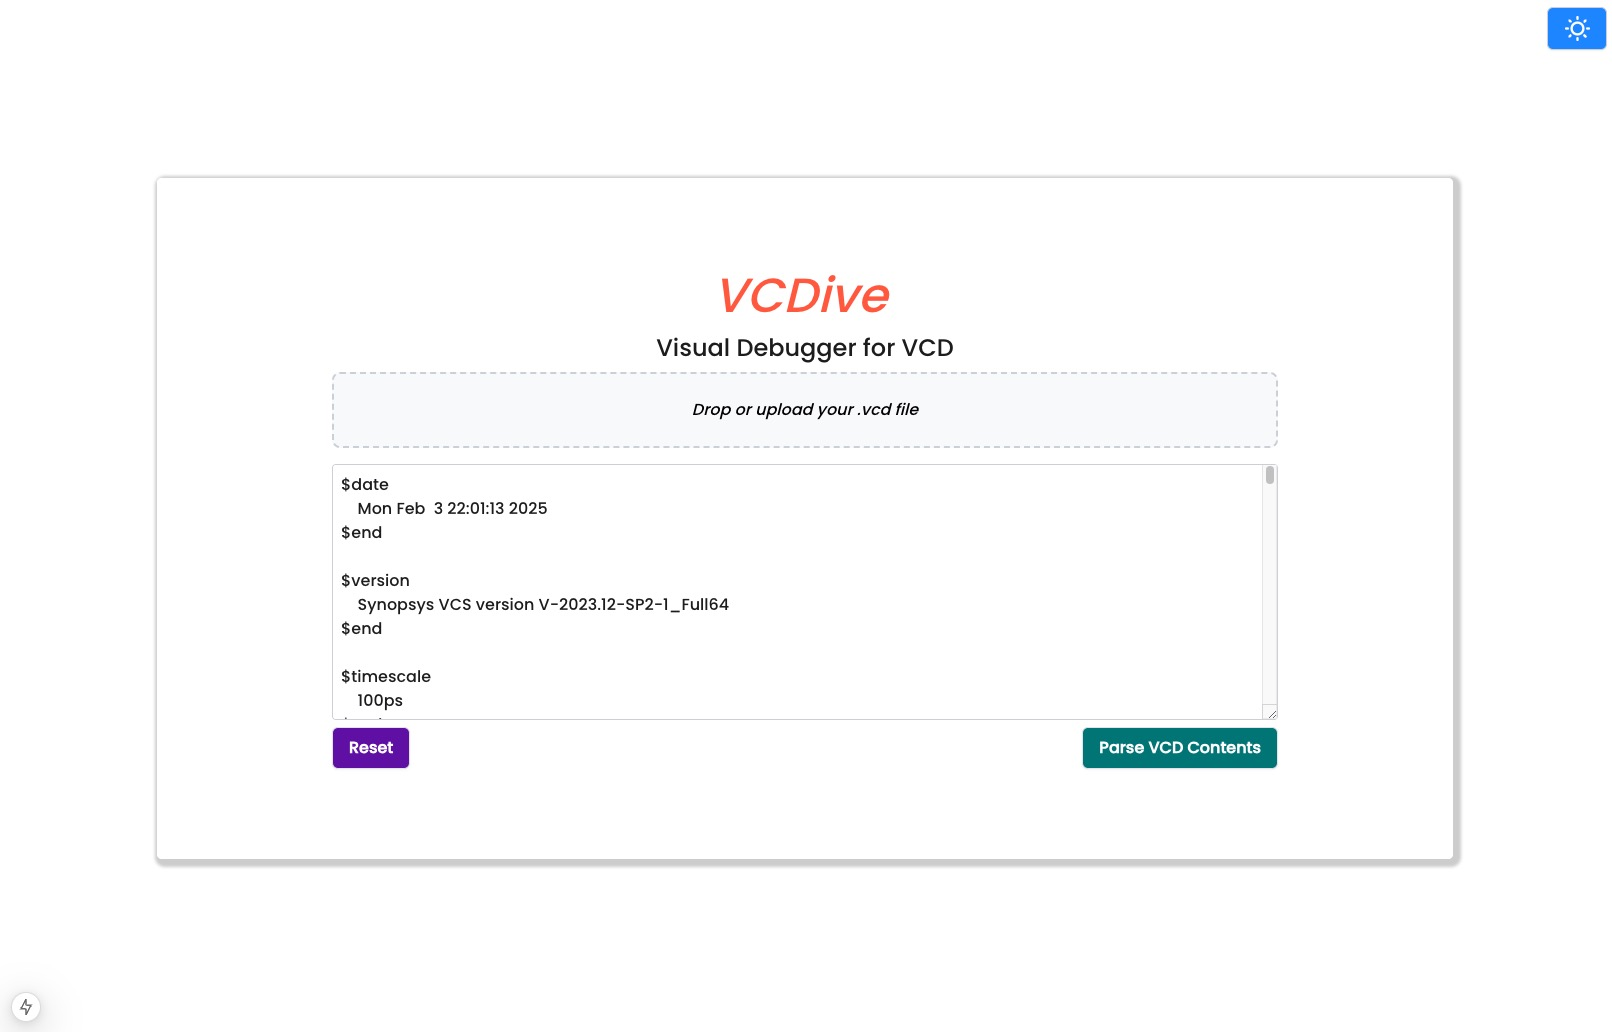
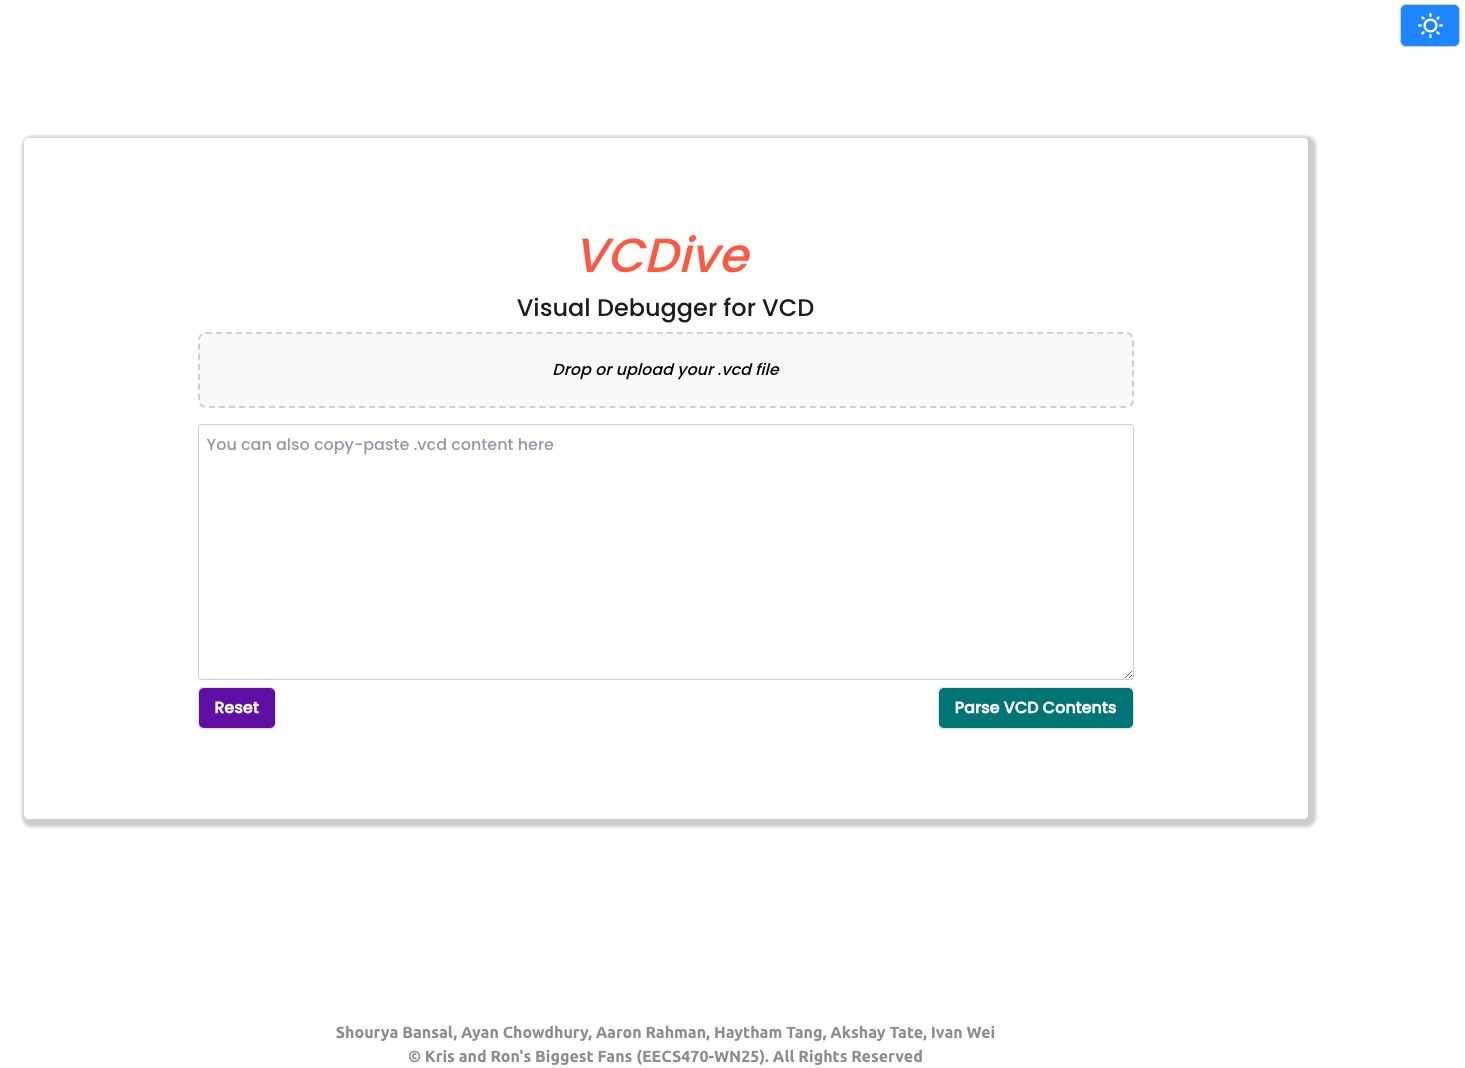
Add a footer

diff --git a/src/app/layout.tsx b/src/app/layout.tsx
@@ -46,7 +46,14 @@ export default function RootLayout({
           <ThemeToggle />
         </header>
         {children}
+
+      <footer className="text-center opacity-50 flex flex-col p-1 font-[ubuntu]">
+      <span>Shourya Bansal, Ayan Chowdhury, Aaron Rahman, Haytham Tang, Akshay Tate, Ivan Wei</span>
+      <span>&#169; Kris and Ron's Biggest Fans (EECS470-WN25). All Rights Reserved</span>
+      </footer>
+
       </body>
+
     </html>
   );
 }
